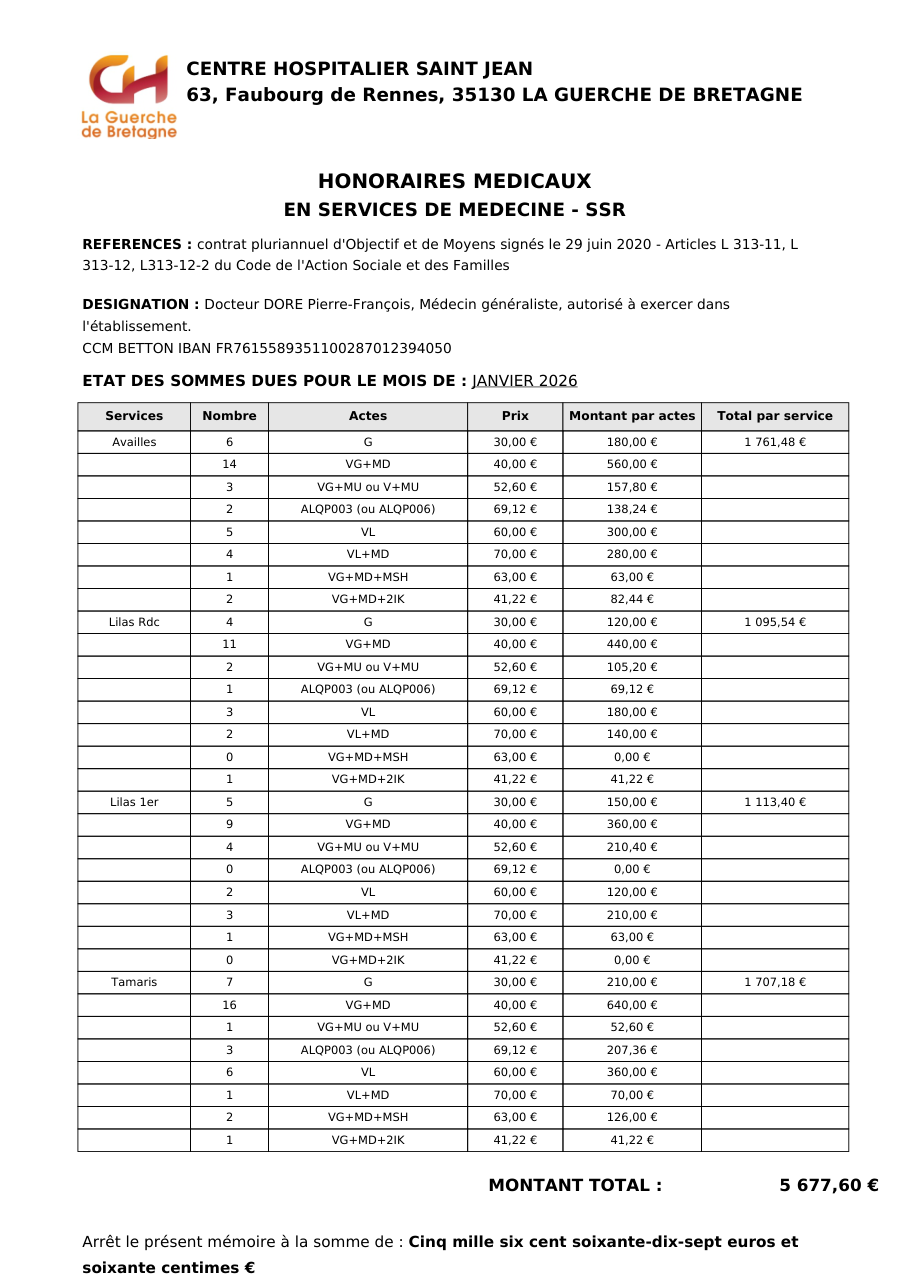
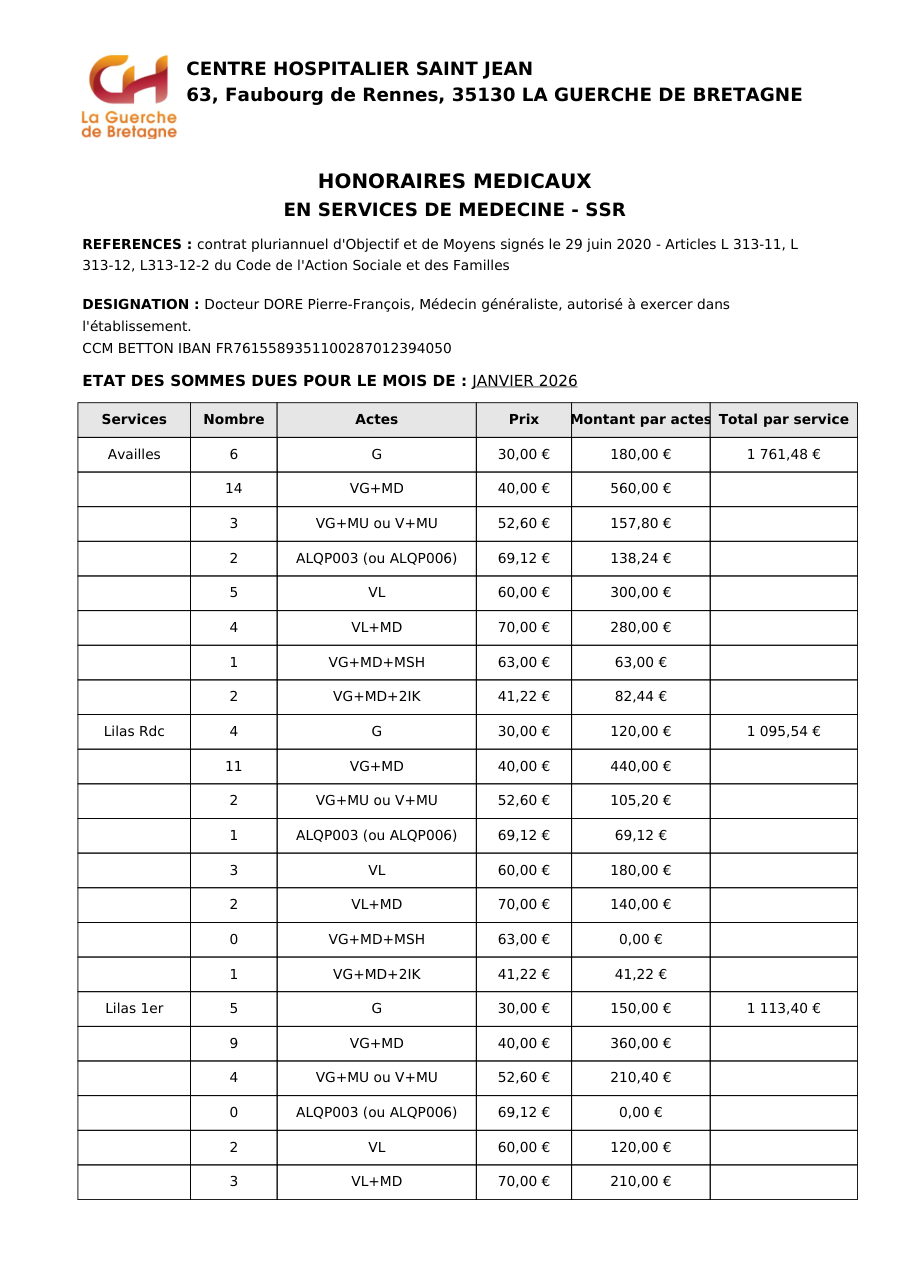
demo: pagination identique au modele (tableau EHPAD flux naturel, suite page suivante)

diff --git a/demo-pdf-option-b/generate_demo.py b/demo-pdf-option-b/generate_demo.py
@@ -182,22 +182,29 @@ pdf.set_font("DejaVu", "U", 10)
 pdf.write(6, MOIS.upper())
 pdf.ln(8)
 
-W = [26, 18, 46, 22, 32, 34]
-pdf.set_font("DejaVu", "B", 8)
-pdf.set_fill_color(230, 230, 230)
-for h, w in zip(["Services", "Nombre", "Actes", "Prix", "Montant par actes", "Total par service"], W):
-    pdf.cell(w, 6.5, h, border=1, align="C", fill=True)
-pdf.ln()
+W = [26, 20, 46, 22, 32, 34]
+
+def entete_tableau_ehpad():
+    pdf.set_font("DejaVu", "B", 9)
+    pdf.set_fill_color(230, 230, 230)
+    for h, w in zip(["Services", "Nombre", "Actes", "Prix", "Montant par actes", "Total par service"], W):
+        pdf.cell(w, 8, h, border=1, align="C", fill=True)
+    pdf.ln()
+
+entete_tableau_ehpad()
 
 total_ehpad = 0
-RH = 5.2
+RH = 8
 for service, actes in EHPAD.items():
     total_service = sum(n * TARIFS[a] for a, n in actes.items())
     total_ehpad += total_service
     premier = True
     for key, libelle in ACTES_EHPAD:
         n = actes.get(key, 0)
-        pdf.set_font("DejaVu", "", 7.5)
+        if pdf.get_y() + RH > 280:
+            pdf.add_page()
+            entete_tableau_ehpad()
+        pdf.set_font("DejaVu", "", 9)
         pdf.cell(W[0], RH, service if premier else "", border=1, align="C")
         premier = False
         pdf.cell(W[1], RH, str(n), border=1, align="C")
